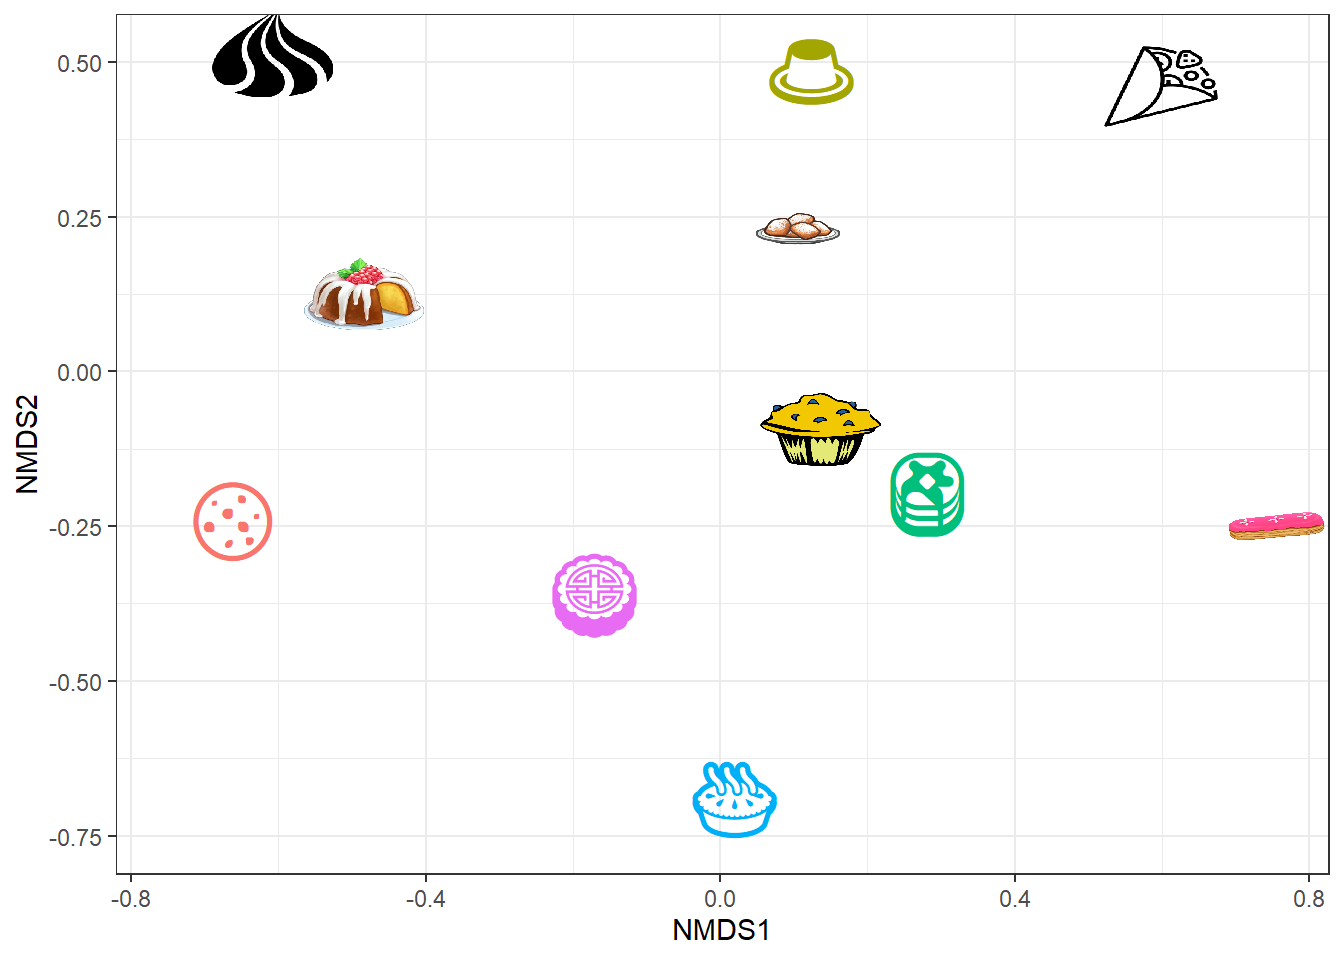
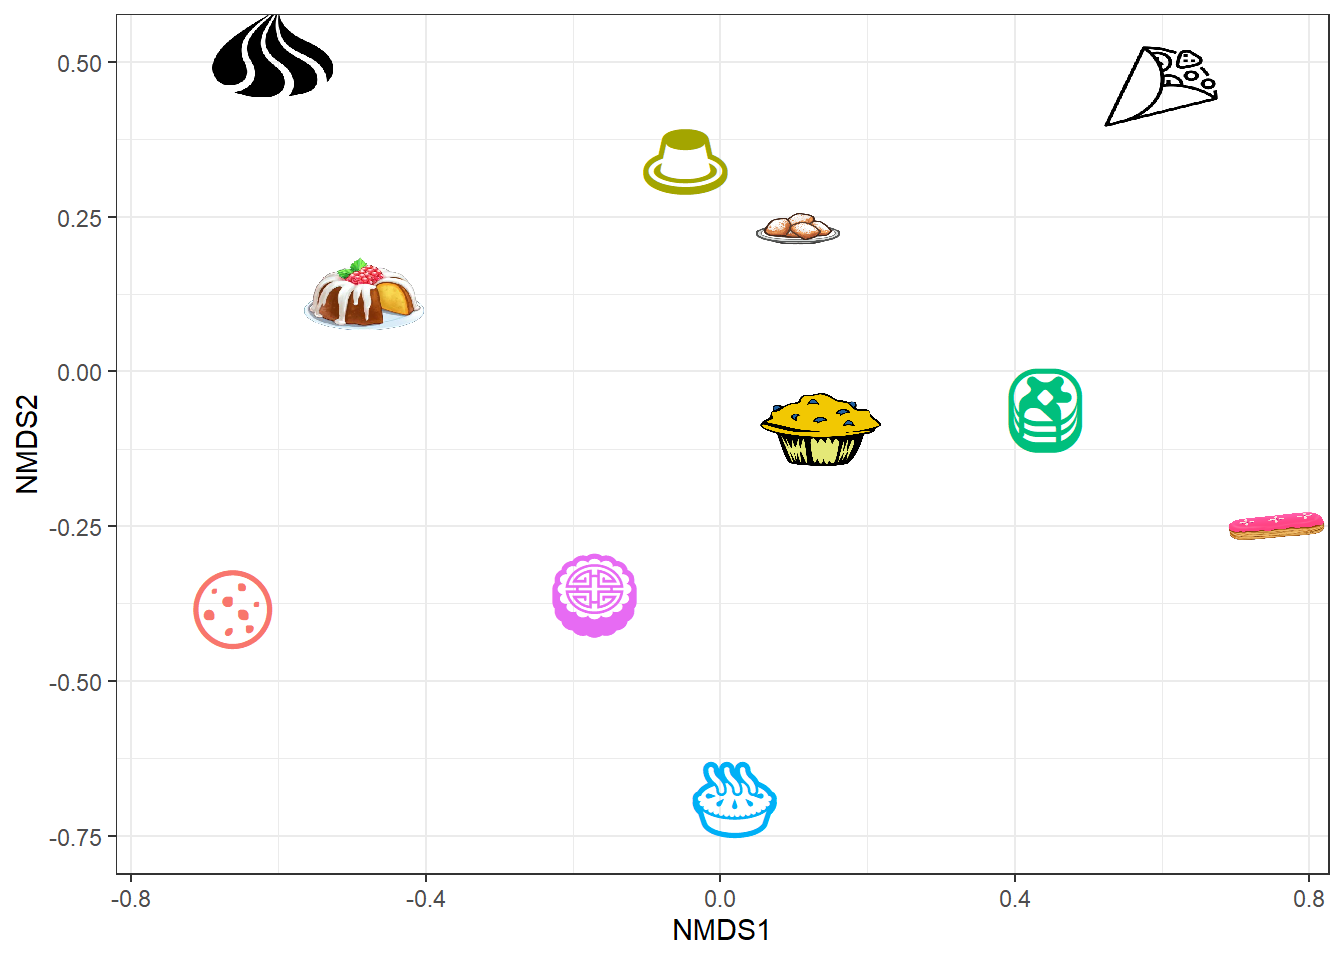
render with about updated

diff --git a/Code_for_multivariate_plots_demo.html b/Code_for_multivariate_plots_demo.html
@@ -402,35 +402,43 @@ desord = metaMDS(desserts[,-1])</code></pre>
 <pre><code>## Run 0 stress 0.1036346 
 ## Run 1 stress 0.1036346 
 ## ... New best solution
-## ... Procrustes: rmse 4.835264e-05  max resid 9.715008e-05 
+## ... Procrustes: rmse 5.30892e-05  max resid 0.0001064708 
 ## ... Similar to previous best
-## Run 2 stress 0.1318934 
+## Run 2 stress 0.1193745 
 ## Run 3 stress 0.1036346 
-## ... Procrustes: rmse 0.000171906  max resid 0.0003475216 
+## ... Procrustes: rmse 0.0001642725  max resid 0.0003294312 
 ## ... Similar to previous best
 ## Run 4 stress 0.1318933 
-## Run 5 stress 0.1318933 
-## Run 6 stress 0.2145512 
-## Run 7 stress 0.1193745 
-## Run 8 stress 0.1193745 
-## Run 9 stress 0.2457046 
-## Run 10 stress 0.20025 
-## Run 11 stress 0.1193745 
-## Run 12 stress 0.1318933 
-## Run 13 stress 0.1036346 
-## ... Procrustes: rmse 4.560635e-05  max resid 8.559396e-05 
+## Run 5 stress 0.1318934 
+## Run 6 stress 0.2899938 
+## Run 7 stress 0.1036347 
+## ... Procrustes: rmse 0.0002570188  max resid 0.0005205672 
 ## ... Similar to previous best
-## Run 14 stress 0.1036346 
-## ... Procrustes: rmse 1.309379e-05  max resid 2.751179e-05 
+## Run 8 stress 0.171437 
+## Run 9 stress 0.1036347 
+## ... Procrustes: rmse 0.0002334495  max resid 0.0004741269 
 ## ... Similar to previous best
-## Run 15 stress 0.1598419 
-## Run 16 stress 0.1383341 
-## Run 17 stress 0.1383341 
-## Run 18 stress 0.1913778 
-## Run 19 stress 0.1036347 
-## ... Procrustes: rmse 0.0002853122  max resid 0.0005786944 
+## Run 10 stress 0.1036346 
+## ... Procrustes: rmse 7.797331e-05  max resid 0.0001588556 
 ## ... Similar to previous best
-## Run 20 stress 0.1193745 
+## Run 11 stress 0.1383341 
+## Run 12 stress 0.1036346 
+## ... Procrustes: rmse 6.190355e-05  max resid 0.000125205 
+## ... Similar to previous best
+## Run 13 stress 0.1786696 
+## Run 14 stress 0.1193745 
+## Run 15 stress 0.1703785 
+## Run 16 stress 0.1318934 
+## Run 17 stress 0.1036346 
+## ... Procrustes: rmse 6.185104e-05  max resid 0.0001253576 
+## ... Similar to previous best
+## Run 18 stress 0.1036346 
+## ... Procrustes: rmse 0.0002117138  max resid 0.0004247419 
+## ... Similar to previous best
+## Run 19 stress 0.1036346 
+## ... Procrustes: rmse 0.0001906893  max resid 0.0003862021 
+## ... Similar to previous best
+## Run 20 stress 0.1318933 
 ## *** Solution reached</code></pre>
 <p>Unfortunately, the basic vegan plotting function doesn’t make a particularly compelling plot:</p>
 <pre class="r"><code>plot(desord)</code></pre>
@@ -442,23 +450,23 @@ dessert_data = data.frame(NMDS1 = desord$points[,1], NMDS2= desord$points[,2],
 
 head(dessert_data)</code></pre>
 <pre><code>##         NMDS1      NMDS2      dessert
-## 1 -0.48446237  0.1261673   pound_cake
-## 2  0.36062149 -0.1195124     pancakes
-## 3 -0.60829675  0.5137283     meringue
-## 4  0.75159751 -0.2512641 choux_pastry
-## 5 -0.06595437 -0.7494404          pie
-## 6  0.10415887  0.2649673      fritter</code></pre>
+## 1 -0.48446362  0.1261595   pound_cake
+## 2  0.36062179 -0.1195179     pancakes
+## 3 -0.60830809  0.5137318     meringue
+## 4  0.75160092 -0.2512453 choux_pastry
+## 5 -0.06593439 -0.7494342          pie
+## 6  0.10414680  0.2649756      fritter</code></pre>
 <pre class="r"><code># create dataframe of ingredient information using the &#39;species&#39; scores 
 ingredient_data = as.data.frame(scores(desord, &quot;species&quot;))
 ingredient_data$ingredient = row.names(ingredient_data)
 
 head(ingredient_data)</code></pre>
 <pre><code>##             NMDS1      NMDS2 ingredient
-## flour  -0.2288931  0.1283646      flour
-## sugar  -1.1138478  0.4866268      sugar
-## eggs    0.3352169  0.3436285       eggs
-## fat    -0.2236636 -0.7130367        fat
-## liquid  0.4657368 -0.1422840     liquid</code></pre>
+## flour  -0.2288977  0.1283596      flour
+## sugar  -1.1138513  0.4866187      sugar
+## eggs    0.3352142  0.3436351       eggs
+## fat    -0.2236500 -0.7130399        fat
+## liquid  0.4657341 -0.1422781     liquid</code></pre>
 <p>Now we can make a plot:</p>
 <pre class="r"><code># First, let&#39;s visualize the desserts in 2-D space
 ggplot(dessert_data, aes(x=NMDS1, y=NMDS2))+
@@ -518,12 +526,12 @@ dessert_data = dessert_data %&gt;%
 
 head(dessert_data)</code></pre>
 <pre><code>##         NMDS1      NMDS2      dessert dessert_id2            emoji
-## 1 -0.48446237  0.1261673   pound_cake    doughnut     &lt;U+0001F369&gt;
-## 2  0.36062149 -0.1195124     pancakes    pancakes     &lt;U+0001F95E&gt;
-## 3 -0.60829675  0.5137283     meringue       cloud &lt;U+2601&gt;&lt;U+FE0F&gt;
-## 4  0.75159751 -0.2512641 choux_pastry       bread     &lt;U+0001F35E&gt;
-## 5 -0.06595437 -0.7494404          pie         pie     &lt;U+0001F967&gt;
-## 6  0.10415887  0.2649673      fritter      hotdog     &lt;U+0001F32D&gt;</code></pre>
+## 1 -0.48446362  0.1261595   pound_cake    doughnut     &lt;U+0001F369&gt;
+## 2  0.36062179 -0.1195179     pancakes    pancakes     &lt;U+0001F95E&gt;
+## 3 -0.60830809  0.5137318     meringue       cloud &lt;U+2601&gt;&lt;U+FE0F&gt;
+## 4  0.75160092 -0.2512453 choux_pastry       bread     &lt;U+0001F35E&gt;
+## 5 -0.06593439 -0.7494342          pie         pie     &lt;U+0001F967&gt;
+## 6  0.10414680  0.2649756      fritter      hotdog     &lt;U+0001F32D&gt;</code></pre>
 <pre class="r"><code>ggplot(dessert_data, aes(x = NMDS1, y = NMDS2))+
   geom_text(aes(label=emoji, col=emoji))+
   geom_text_repel(aes(label=dessert))+
@@ -563,11 +571,11 @@ dessert_data$picture[grep(&quot;muffin&quot;,dessert_data$dessert)] = &quot;baki
 <p>The last step that I’ll cover is adding the ingredient information to plot.</p>
 <pre class="r"><code>head(ingredient_data)</code></pre>
 <pre><code>##             NMDS1      NMDS2 ingredient
-## flour  -0.2288931  0.1283646      flour
-## sugar  -1.1138478  0.4866268      sugar
-## eggs    0.3352169  0.3436285       eggs
-## fat    -0.2236636 -0.7130367        fat
-## liquid  0.4657368 -0.1422840     liquid</code></pre>
+## flour  -0.2288977  0.1283596      flour
+## sugar  -1.1138513  0.4866187      sugar
+## eggs    0.3352142  0.3436351       eggs
+## fat    -0.2236500 -0.7130399        fat
+## liquid  0.4657341 -0.1422781     liquid</code></pre>
 <p>We can do this by simply adding another layer to the plot:</p>
 <pre class="r"><code>ggplot(dessert_data, aes(x=NMDS1, y=NMDS2))+
   geom_image(aes(image = picture),size=0.1)+

diff --git a/about.html b/about.html
@@ -296,7 +296,8 @@ $(document).ready(function () {
 
 <div id="this-site-is-in-progress" class="section level2">
 <h2>This site is in progress!</h2>
-<p>Check back as we add more tips and tricks!</p>
+<p>This site is meant to be a resource for anyone hoping to extend their plotting skills in R. Almost all of the plots are made using ggplot2 and a variety of accessory packages. The topics cover a wide range of plotting applications; most of these arose from real situations when we were faced with a unique plotting problem in the course of doing ecological research and finding creative and reproducible ways to report the results.</p>
+<p>Thanks for visiting, and stay tuned as we add more content!</p>
 </div>
 
 

diff --git a/index.html b/index.html
@@ -294,7 +294,8 @@ $(document).ready(function () {
 </div>
 
 
-<p>This site is in progress – check back for updates!</p>
+<p>This site is a work in progress, so be sure to check back for updates!</p>
+<p><img src="https://media.giphy.com/media/gkR94v1ok56OAkg8o1/giphy.gif" /></p>
 
 
 

diff --git a/Code_for_Circular_plots_demo.html b/Code_for_Circular_plots_demo.html
@@ -346,7 +346,7 @@ div.tocify {
 </li>
 <li>
   <a href="Code_for_multivariate_plots_demo.html">
-    <span class="fa fa-chart-scatter"></span>
+    <span class="fa fa-cubes"></span>
      
     Multivariate
   </a>
